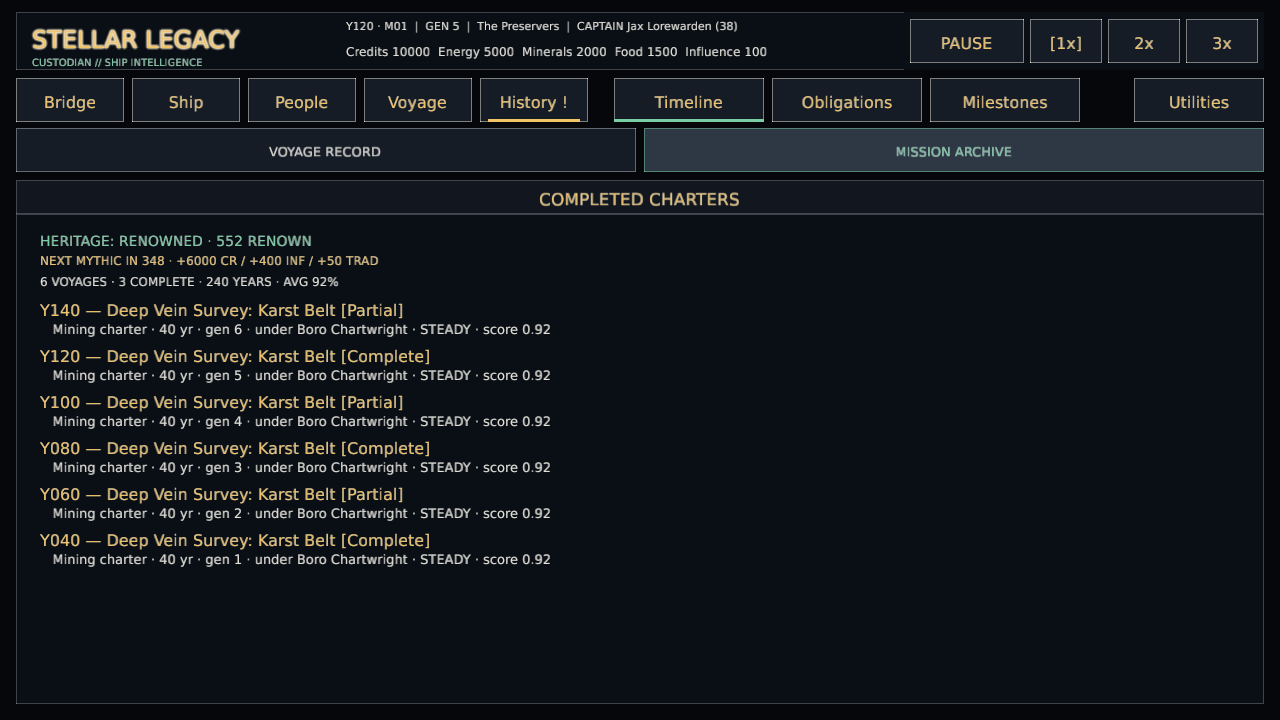
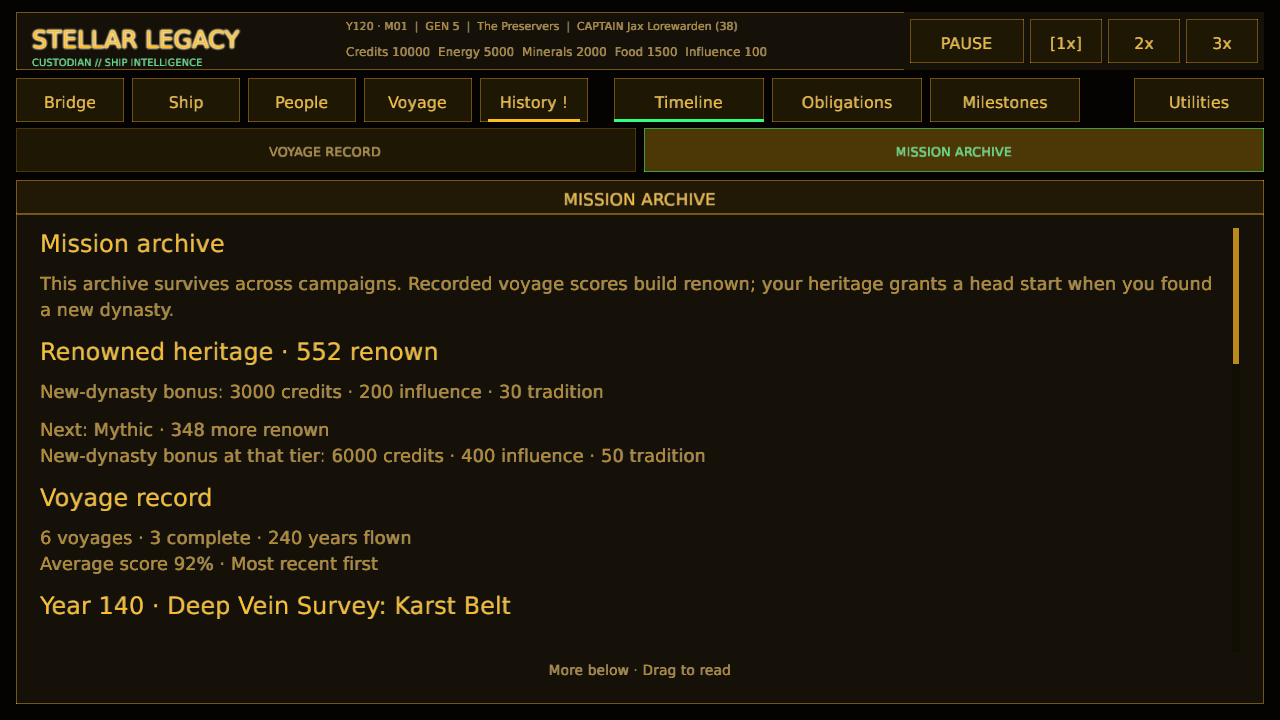
The archive tells what each voyage leaves behind (mission archive UX)
The compact archive omitted captain, duration and heritage context, and showed
oldest voyages first. Both layouts now share wrapping, scrollable archive content
with recent reports first, percentage scores and explicit new-dynasty bonuses.
An empty archive explains when reports arrive and where current duties live.

Clippy, source-size checks and the default publisher passed. Reviewed populated
desktop and phone captures, the oldest phone record and the live empty archive.

Changed region(s): [[0.0, 0.0, 1.0, 0.7944], [0.0312, 0.825, 0.4062, 0.8556], [0.4062, 0.9167, 0.5625, 0.9472]]

diff --git a/src/ui/chronicle.rs b/src/ui/chronicle.rs
@@ -1,6 +1,7 @@
 //! Chronicle: completed contracts across playthroughs, plus the achievement
 //! roster (GDD §7, §10).
 
+pub(crate) mod archive;
 use crate::ui::{term, term_button, term_panel, GameplayCtx, UiAction};
 use macroquad::prelude::*;
 use macroquad_toolkit::prelude::*;
@@ -9,9 +10,6 @@ use macroquad_toolkit::ui::{
 };
 use std::cmp::Reverse;
 
-/// Vertical stride of one Chronicle entry, and the height of the entry itself.
-const ENTRY_STRIDE: f32 = 46.0;
-const ENTRY_H: f32 = 40.0;
 /// Reserved at the panel's right edge for the scrollbar.
 const GUTTER: f32 = 12.0;
 const TAB_H: f32 = 44.0;
@@ -488,125 +486,7 @@ fn draw_obligation_history(
     ctx.obligation_history_scroll.set(scroll);
 }
 
-fn draw_mission_archive(ctx: &GameplayCtx<'_>, area: Rect, pointer: Pointer) {
-    term_panel(area, Some("COMPLETED CHARTERS"));
-    let content = area.inset(24.0);
-    let y = content.y + 112.0;
-
-    if ctx.chronicle.entries.is_empty() {
-        draw_text_block(
-            "No voyages recorded yet.\n\nEvery completed contract is written here, and the Chronicle outlives any single save. Renown automatically grants a stronger Heritage tier to new dynasties.",
-            content.x,
-            y,
-            content.w,
-            120.0,
-            15.0,
-            5.0,
-            term::dim(),
-        );
-        return;
-    }
-
-    let stats = ctx.chronicle.stats();
-    let heritage = crate::heritage::derive(ctx.chronicle, &ctx.data.config.heritage);
-    draw_ui_text_ex(
-        &format!(
-            "HERITAGE: {} · {} RENOWN",
-            heritage.tier_name.to_uppercase(),
-            heritage.renown
-        ),
-        content.x,
-        content.y + 42.0,
-        TextStyle::new(14.0, term::accent()).params(),
-    );
-    let next = crate::heritage::next_tier(heritage.renown, &ctx.data.config.heritage)
-        .map(|tier| {
-            format!(
-                "NEXT {} IN {} · +{} CR / +{} INF / +{} TRAD",
-                tier.name.to_uppercase(),
-                tier.min_renown - heritage.renown,
-                tier.credits,
-                tier.influence,
-                tier.tradition
-            )
-        })
-        .unwrap_or_else(|| "HIGHEST HERITAGE REACHED".to_owned());
-    draw_ui_text_ex(
-        &next,
-        content.x,
-        content.y + 61.0,
-        TextStyle::new(12.0, term::primary()).params(),
-    );
-    draw_ui_text_ex(
-        &format!(
-            "{} VOYAGES · {} COMPLETE · {} YEARS · AVG {:.0}%",
-            stats.voyages,
-            stats.completed,
-            stats.years_flown,
-            stats.average_score * 100.0
-        ),
-        content.x,
-        content.y + 82.0,
-        TextStyle::new(12.0, term::dim()).params(),
-    );
-
-    // The Chronicle outlives any single save, so it only ever grows — and it
-    // used to show its newest nine and drop the rest without saying so, which
-    // for a record whose whole purpose is to be the long memory is the one
-    // thing it must not do. It scrolls now, oldest still reachable.
-    let view = Rect::new(
-        content.x,
-        y - 14.0,
-        content.w,
-        content.bottom() - (y - 14.0),
-    );
-    let content_h = ctx.chronicle.entries.len() as f32 * ENTRY_STRIDE;
-    let mut scroll = ctx.chronicle_scroll.get();
-    scroll.update_at(view, content_h, pointer.position);
-
-    let mut row_top = view.y - scroll.offset();
-    for entry in ctx.chronicle.entries.iter().rev() {
-        let row = Rect::new(view.x, row_top, view.w - GUTTER, ENTRY_H);
-        row_top += ENTRY_STRIDE;
-        // macroquad has no scissor rect, so cull the partly-scrolled entries
-        // rather than letting them spill past the panel.
-        if !is_fully_visible(row, view) {
-            continue;
-        }
-        draw_ui_text_ex(
-            &format!(
-                "Y{:03} — {} [{}]",
-                entry.completed_year, entry.contract_name, entry.outcome
-            ),
-            row.x,
-            row.y + 14.0,
-            TextStyle::new(16.0, term::primary()).params(),
-        );
-        draw_ui_text_ex(
-            &format!(
-                "   {} charter · {} yr · gen {} · under {} · {} · score {:.2}",
-                entry.objective,
-                entry.duration_years,
-                entry.generation,
-                entry.leader_name,
-                entry.command_posture.label(),
-                entry.score
-            ),
-            row.x,
-            row.y + 32.0,
-            TextStyle::new(13.0, term::dim()).params(),
-        );
-    }
-
-    scroll.draw_scrollbar_with(
-        view,
-        content_h,
-        term::surface_inset(),
-        term::dim(),
-        term::primary(),
-    );
-    ctx.chronicle_scroll.set(scroll);
-}
+use archive::draw as draw_mission_archive;
 
 fn draw_milestones(ctx: &GameplayCtx<'_>, area: Rect) {
     let (unlocked, total) = ctx.achievements.progress();

diff --git a/src/ui/chronicle/archive.rs b/src/ui/chronicle/archive.rs
@@ -1,0 +1,66 @@
+//! A shared, wrapping archive for the long memory between campaigns.
+use super::*;
+use crate::ui::mobile::form::Form;
+
+pub(super) fn draw(ctx: &GameplayCtx<'_>, area: Rect, pointer: Pointer) {
+    term_panel(area, Some("MISSION ARCHIVE"));
+    let mut form = Form::new();
+    build(ctx, &mut form);
+    let mut view = area.inset(24.0);
+    view.y += 24.0;
+    view.h -= 24.0;
+    form.draw(
+        view,
+        ctx.presentation,
+        pointer,
+        "mission-archive",
+        &mut Vec::new(),
+    );
+}
+
+pub(crate) fn build(ctx: &GameplayCtx<'_>, form: &mut Form) {
+    form.heading("Mission archive");
+    form.text("This archive survives across campaigns. Recorded voyage scores build renown; your heritage grants a head start when you found a new dynasty.");
+    let heritage = crate::heritage::derive(ctx.chronicle, &ctx.data.config.heritage);
+    form.heading(&format!(
+        "{} heritage · {} renown",
+        heritage.tier_name, heritage.renown
+    ));
+    form.text(&format!(
+        "New-dynasty bonus: {} credits · {} influence · {} tradition",
+        heritage.credits, heritage.influence, heritage.tradition
+    ));
+    if let Some(next) = crate::heritage::next_tier(heritage.renown, &ctx.data.config.heritage) {
+        form.text(&format!(
+            "Next: {} · {} more renown\nNew-dynasty bonus at that tier: {} credits · {} influence · {} tradition",
+            next.name, next.min_renown - heritage.renown, next.credits, next.influence, next.tradition
+        ));
+    } else {
+        form.text("Highest heritage tier reached.");
+    }
+    if ctx.chronicle.entries.is_empty() {
+        form.heading("No voyages recorded yet");
+        form.text("When a voyage ends, its report is recorded here. Your current voyage's decisions and promises are in Timeline and Obligations.");
+        return;
+    }
+    let stats = ctx.chronicle.stats();
+    form.heading("Voyage record");
+    form.text(&format!(
+        "{} voyages · {} complete · {} years flown\nAverage score {:.0}% · Most recent first",
+        stats.voyages,
+        stats.completed,
+        stats.years_flown,
+        stats.average_score * 100.0
+    ));
+    for entry in ctx.chronicle.entries.iter().rev() {
+        form.heading(&format!(
+            "Year {} · {}",
+            entry.completed_year, entry.contract_name
+        ));
+        form.text(&format!(
+            "{} · Score {:.0}%\n{} charter · {} years\nCaptain {} · Generation {}\nCommand posture: {}",
+            entry.outcome, entry.score * 100.0, entry.objective, entry.duration_years,
+            entry.leader_name, entry.generation, entry.command_posture.label()
+        ));
+    }
+}

diff --git a/src/ui/mobile/history.rs b/src/ui/mobile/history.rs
@@ -106,13 +106,7 @@ pub(super) fn build(ctx: &GameplayCtx<'_>, f: &mut Form, section: &str) {
             }
         }
         "archive" => {
-            f.heading("Mission archive");
-            for e in &ctx.chronicle.entries {
-                f.text(&format!(
-                    "{} · {} · Score {:.2}",
-                    e.contract_name, e.outcome, e.score
-                ));
-            }
+            crate::ui::chronicle::archive::build(ctx, f);
         }
         "milestones" => {
             f.heading("Milestones");

diff --git a/gdd.md b/gdd.md
@@ -280,6 +280,9 @@ and closed duties. Full histories start with Back to obligations and show the
 captain and status of each entry; empty lists explain what belongs there.
 Timeline selections retain the same decision when new records arrive, in both
 the desktop and compact reading layouts.
+Both archive layouts show recent voyages first with captain, duration, posture
+and percentage scores. Heritage explains the current and next new-dynasty bonus;
+an empty archive explains when voyage reports are recorded.
 Utilities contains Save game, Help, Display & sound and Return to menu.
 Pause/Resume and speed controls remain reachable above blocking decisions.
 Responsive and phone navigation underline the active destination and section;

diff --git a/docs/verification/browser_interaction_notes.md b/docs/verification/browser_interaction_notes.md
@@ -84,3 +84,9 @@ observed Perr Steadfast as named heir, delegated Mission Milestone events and
 then returned them to council review. Each control updated its current mode
 and next action, with feedback. Phone captures reach the final legacy section.
 The final extracted build is covered by the full suite and publisher gates.
+
+Archive presentation follow-up: the packaged browser's saved Year 2 campaign
+shows the empty archive, Founding heritage at zero renown, and the next tier's
+100-renown threshold and bonuses. Populated desktop and portrait fixtures show
+all six records newest first; the portrait end capture reaches the oldest record.
+This checks archive presentation, not the full Homecoming-to-second-charter route.
